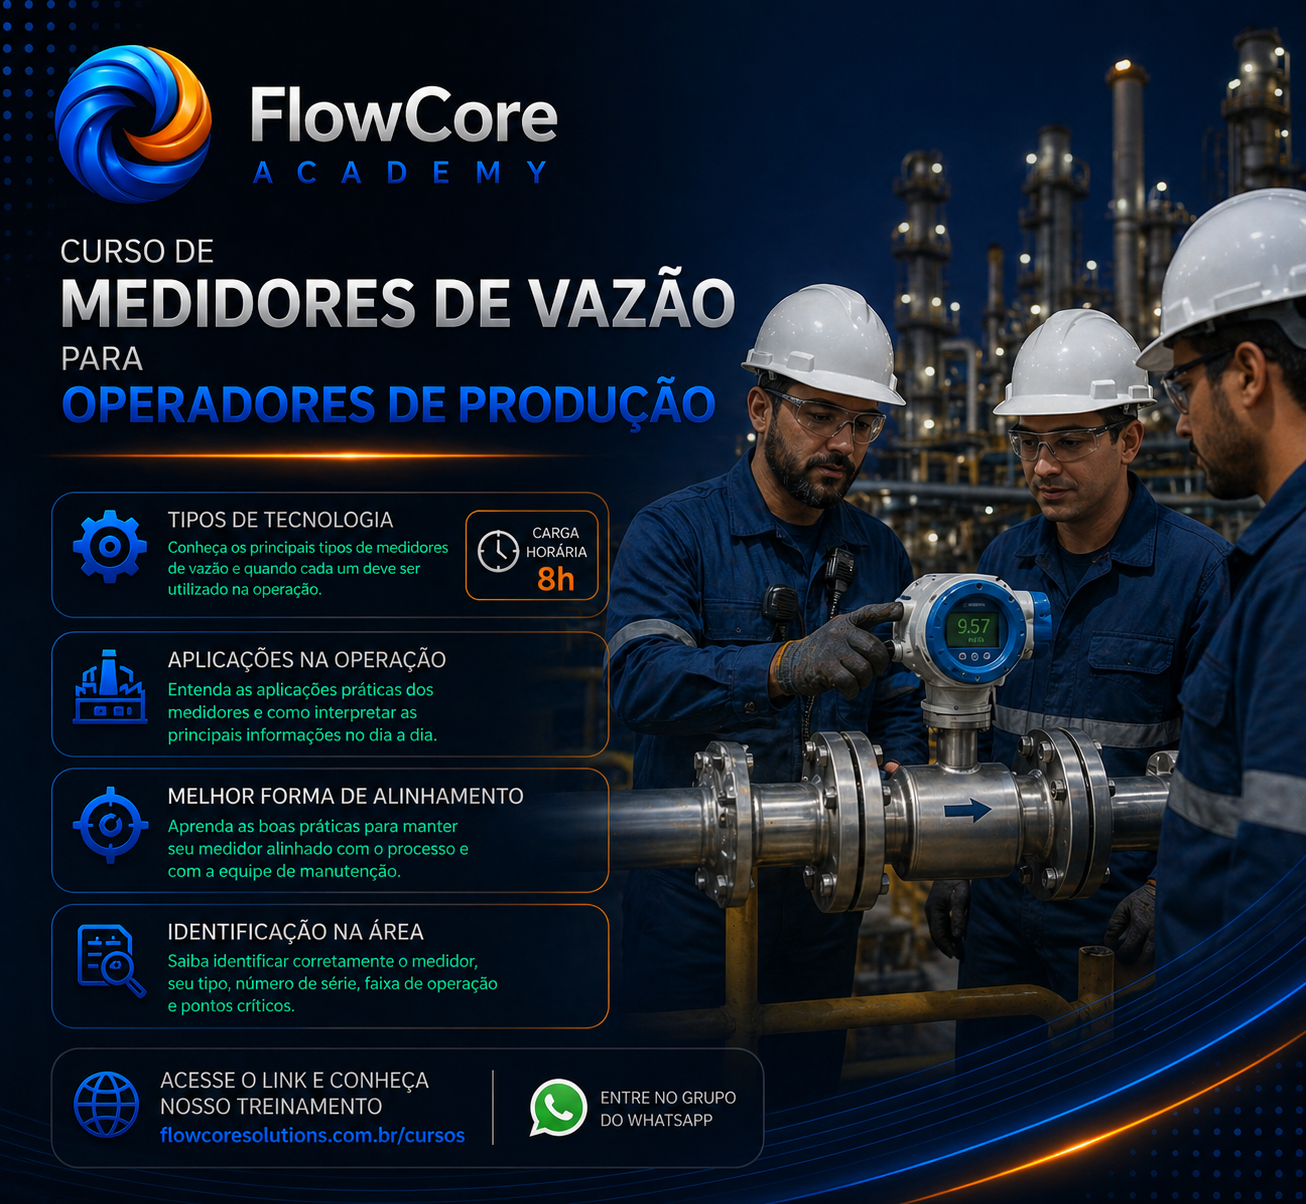
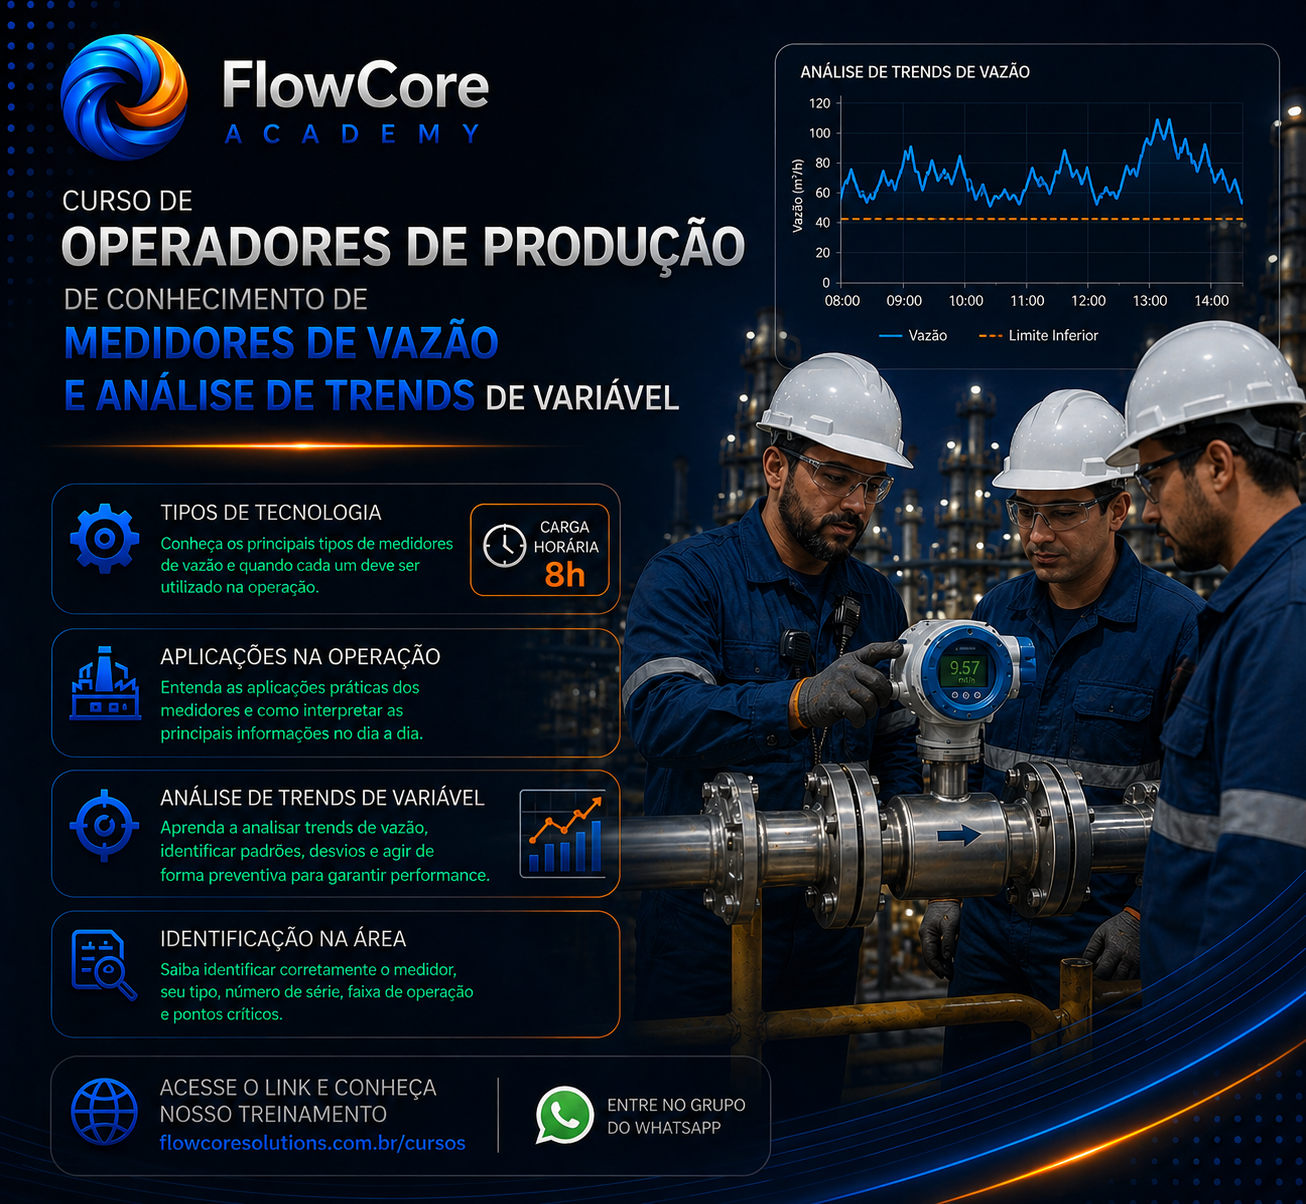
Add files via upload

diff --git a/cursos.html b/cursos.html
@@ -593,67 +593,8 @@
       </div>
     </section>
 
-    <!-- HIGHLIGHT SECTION (Destaque principal movido para cima) -->
-    <section class="highlight-section" id="contato" style="padding: 10px 0 80px;">
-      <div class="container">
-        <div class="highlight-box">
-          <div class="highlight-image-wrapper">
-            <img src="medidores-de-vazao.png" alt="Curso completo"
-              onerror="this.src='https://images.unsplash.com/photo-1581092795360-fd1ca04f0952?auto=format&fit=crop&q=80&w=600'" />
-          </div>
-          <div class="highlight-content">
-            <h2 class="highlight-title">Curso completo de medidores com ênfase em manutenção</h2>
-            <p class="highlight-sub">
-              A <strong>solução definitiva</strong>. Turma voltada para quem responde por sistemas de medição e precisa
-              tomar decisões seguras em campo, sem depender dos fabricantes.
-            </p>
-
-            <div class="highlight-date">
-              <div style="display: flex; align-items: center; gap: 12px; margin-bottom: 2px;">
-                <span style="font-weight: 500;">Próxima turma:</span>
-                <div class="live-badge">
-                  <div class="live-dot"></div>On-line Ao Vivo
-                </div>
-              </div>
-              <div style="margin-bottom: 12px; font-size: 0.9em; color: var(--accent-main); font-weight: 600;">
-                <span style="color: var(--text-muted); font-weight: 400;">Transmissão oficial via</span> Plataforma Zoom
-              </div>
-              <ul style="list-style: none; margin-bottom: 20px; color: var(--text-body);">
-                <li style="margin-bottom: 4px;"><strong>04/05/2026</strong> <span
-                    style="font-size: 0.9em; opacity: 0.8;">- segunda-feira</span></li>
-                <li style="margin-bottom: 4px;"><strong>05/05/2026</strong> <span
-                    style="font-size: 0.9em; opacity: 0.8;">- terça-feira</span></li>
-                <li style="margin-bottom: 4px;"><strong>06/05/2026</strong> <span
-                    style="font-size: 0.9em; opacity: 0.8;">- quarta-feira</span></li>
-                <li style="margin-bottom: 4px;"><strong>07/05/2026</strong> <span
-                    style="font-size: 0.9em; opacity: 0.8;">- quinta-feira</span></li>
-              </ul>
-              Formulário oficial: <a href="https://forms.gle/NqiuAFjc1sUkmME9A" target="_blank"
-                style="color: var(--accent-main); font-weight: 600; text-decoration: underline;">Acesse aqui o
-                Formulário</a>
-            </div>
-
-            <div style="display: flex; flex-wrap: wrap; gap: 16px; align-items: center;">
-              <a class="btn btn-primary" href="https://forms.gle/NqiuAFjc1sUkmME9A" target="_blank">
-                Preencher Inscrição ↗
-              </a>
-              <a href="ementa-fpso.html" target="_blank"
-                style="display: inline-flex; align-items: center; gap: 8px; font-family: 'Outfit', sans-serif; font-weight: 600; font-size: 0.95rem; color: var(--accent-secondary); border: 1.5px solid var(--accent-secondary); border-radius: var(--radius-pill); padding: 12px 22px; transition: all 0.3s ease;"
-                onmouseover="this.style.background='var(--accent-secondary)';this.style.color='#fff';"
-                onmouseout="this.style.background='transparent';this.style.color='var(--accent-secondary)';">
-                📄 Ver Ementa Completa
-              </a>
-              <span style="font-size: 0.9rem; color: var(--text-muted);">
-                (21) 98371-0895
-              </span>
-            </div>
-          </div>
-        </div>
-      </div>
-    </section>
-
     <!-- CURSO OPERADORES -->
-    <section class="highlight-section" style="padding: 0 0 80px;">
+    <section class="highlight-section" id="contato" style="padding: 10px 0 80px;">
       <div class="container">
         <div class="highlight-box">
           <div class="highlight-image-wrapper">
@@ -661,9 +602,9 @@
               onerror="this.src='https://images.unsplash.com/photo-1581092795360-fd1ca04f0952?auto=format&fit=crop&q=80&w=600'" />
           </div>
           <div class="highlight-content">
-            <h2 class="highlight-title">Curso de medidores de vazão para operadores de produção</h2>
+            <h2 class="highlight-title">Curso básico de medidores de vazão para operadores de produção</h2>
             <p class="highlight-sub">
-              Voltado para quem opera os sistemas no dia a dia. Linguagem prática, foco em leitura, diagnóstico básico e tomada de decisão em campo — sem depender do especialista para cada dúvida.
+              Treinamento básico para operadores de produção e também para profissionais que atuam em instalações industriais. Linguagem prática, foco em leitura, diagnóstico inicial e tomada de decisão em campo. Ideal para quem precisa entender melhor os medidores no dia a dia.
             </p>
 
             <div class="highlight-date">
@@ -699,6 +640,65 @@
                 onmouseover="this.style.background='#25D366';this.style.color='#fff';"
                 onmouseout="this.style.background='transparent';this.style.color='#25D366';">
                 Grupo da Turma ↗
+              </a>
+              <span style="font-size: 0.9rem; color: var(--text-muted);">
+                (21) 98371-0895
+              </span>
+            </div>
+          </div>
+        </div>
+      </div>
+    </section>
+
+    <!-- HIGHLIGHT SECTION (Destaque principal movido para baixo) -->
+    <section class="highlight-section" style="padding: 0 0 80px;">
+      <div class="container">
+        <div class="highlight-box">
+          <div class="highlight-image-wrapper">
+            <img src="medidores-de-vazao.png" alt="Curso completo"
+              onerror="this.src='https://images.unsplash.com/photo-1581092795360-fd1ca04f0952?auto=format&fit=crop&q=80&w=600'" />
+          </div>
+          <div class="highlight-content">
+            <h2 class="highlight-title">Curso completo de medidores com ênfase em manutenção</h2>
+            <p class="highlight-sub">
+              A <strong>solução definitiva</strong>. Turma voltada para quem responde por sistemas de medição e precisa
+              tomar decisões seguras em campo, sem depender dos fabricantes.
+            </p>
+
+            <div class="highlight-date">
+              <div style="display: flex; align-items: center; gap: 12px; margin-bottom: 2px;">
+                <span style="font-weight: 500;">Próxima turma:</span>
+                <div class="live-badge">
+                  <div class="live-dot"></div>On-line Ao Vivo
+                </div>
+              </div>
+              <div style="margin-bottom: 12px; font-size: 0.9em; color: var(--accent-main); font-weight: 600;">
+                <span style="color: var(--text-muted); font-weight: 400;">Transmissão oficial via</span> Plataforma Zoom
+              </div>
+              <ul style="list-style: none; margin-bottom: 20px; color: var(--text-body);">
+                <li style="margin-bottom: 4px;"><strong>10/08/2026</strong> <span
+                    style="font-size: 0.9em; opacity: 0.8;">- segunda-feira</span></li>
+                <li style="margin-bottom: 4px;"><strong>11/08/2026</strong> <span
+                    style="font-size: 0.9em; opacity: 0.8;">- terça-feira</span></li>
+                <li style="margin-bottom: 4px;"><strong>12/08/2026</strong> <span
+                    style="font-size: 0.9em; opacity: 0.8;">- quarta-feira</span></li>
+                <li style="margin-bottom: 4px;"><strong>13/08/2026</strong> <span
+                    style="font-size: 0.9em; opacity: 0.8;">- quinta-feira</span></li>
+              </ul>
+              Formulário oficial: <a href="https://forms.gle/NqiuAFjc1sUkmME9A" target="_blank"
+                style="color: var(--accent-main); font-weight: 600; text-decoration: underline;">Acesse aqui o
+                Formulário</a>
+            </div>
+
+            <div style="display: flex; flex-wrap: wrap; gap: 16px; align-items: center;">
+              <a class="btn btn-primary" href="https://forms.gle/NqiuAFjc1sUkmME9A" target="_blank">
+                Preencher Inscrição ↗
+              </a>
+              <a href="ementa-fpso.html" target="_blank"
+                style="display: inline-flex; align-items: center; gap: 8px; font-family: 'Outfit', sans-serif; font-weight: 600; font-size: 0.95rem; color: var(--accent-secondary); border: 1.5px solid var(--accent-secondary); border-radius: var(--radius-pill); padding: 12px 22px; transition: all 0.3s ease;"
+                onmouseover="this.style.background='var(--accent-secondary)';this.style.color='#fff';"
+                onmouseout="this.style.background='transparent';this.style.color='var(--accent-secondary)';">
+                📄 Ver Ementa Completa
               </a>
               <span style="font-size: 0.9rem; color: var(--text-muted);">
                 (21) 98371-0895